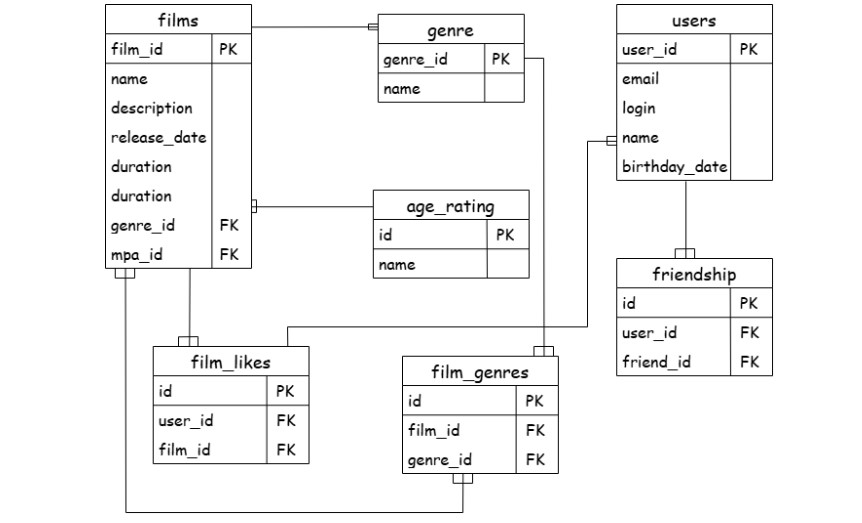
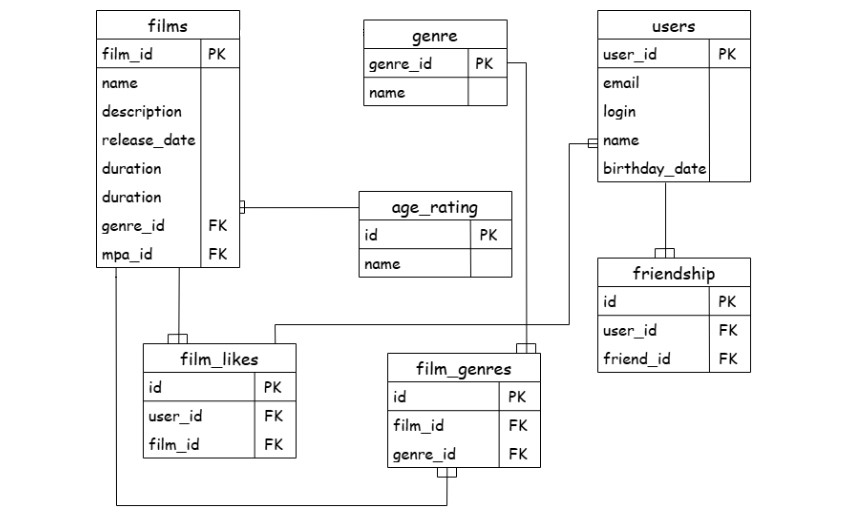
Исправил все замечания

Changed region(s): [[0.1206, 0.0, 0.9049, 0.979], [0.6636, 0.0, 0.9049, 0.3671]]

diff --git a/src/main/java/ru/yandex/practicum/filmorate/storage/database/FilmDatabaseDao.java b/src/main/java/ru/yandex/practicum/filmorate/storage/database/FilmDatabaseDao.java
@@ -6,8 +6,8 @@ import org.springframework.jdbc.core.ResultSetExtractor;
 import org.springframework.jdbc.core.simple.SimpleJdbcInsert;
 import org.springframework.stereotype.Repository;
 import ru.yandex.practicum.filmorate.model.Film;
-import ru.yandex.practicum.filmorate.model.GenreDTO;
-import ru.yandex.practicum.filmorate.model.Rating;
+import ru.yandex.practicum.filmorate.model.Genre;
+import ru.yandex.practicum.filmorate.model.MpaRating;
 import ru.yandex.practicum.filmorate.storage.FilmDAO;
 
 import java.sql.SQLException;
@@ -15,7 +15,7 @@ import java.util.*;
 import java.util.stream.Collectors;
 
 @Repository
-public class DatabaseFilmDao implements FilmDAO {
+public class FilmDatabaseDao implements FilmDAO {
     private final JdbcTemplate jdbcTemplate;
     public static final ResultSetExtractor<List<Film>> LIST_RESULT_SET_EXTRACTOR = (rs) -> {
         Map<Long, Film> map = new HashMap<>();
@@ -36,13 +36,14 @@ public class DatabaseFilmDao implements FilmDAO {
                 }
             });
             if (rs.getObject("GENRE_ID") != null) {
-                GenreDTO genreDTO = new GenreDTO();
-                genreDTO.setId(rs.getLong("GENRE_ID"));
-                genreDTO.setName(rs.getString("GENRE_NAME"));
-                film.getGenres().add(genreDTO);
+                Genre genre = Genre.builder()
+                        .id(rs.getLong("GENRE_ID"))
+                        .name(rs.getString("GENRE_NAME"))
+                        .build();
+                film.getGenres().add(genre);
             }
             if (rs.getObject("RATING_ID") != null) {
-                film.setMpa(Rating.builder()
+                film.setMpa(MpaRating.builder()
                         .id(rs.getLong("RATING_ID"))
                         .name(rs.getString("RATING_NAME"))
                         .build());
@@ -51,13 +52,13 @@ public class DatabaseFilmDao implements FilmDAO {
 
         return map.values().stream().peek(film -> film.setGenres(
                 film.getGenres().stream()
-                        .sorted(Comparator.comparing(GenreDTO::getId))
+                        .sorted(Comparator.comparing(Genre::getId))
                         .collect(Collectors.toCollection(LinkedHashSet::new))
         )).toList();
     };
 
     @Autowired
-    public DatabaseFilmDao(JdbcTemplate jdbcTemplate) {
+    public FilmDatabaseDao(JdbcTemplate jdbcTemplate) {
         this.jdbcTemplate = jdbcTemplate;
     }
 

diff --git a/src/test/java/ru/yandex/practicum/filmorate/controller/FilmControllerTest.java b/src/test/java/ru/yandex/practicum/filmorate/controller/FilmControllerTest.java
@@ -7,14 +7,14 @@ import ru.yandex.practicum.filmorate.exception.ValidationException;
 import ru.yandex.practicum.filmorate.model.Film;
 import ru.yandex.practicum.filmorate.service.FilmService;
 import ru.yandex.practicum.filmorate.service.GenreService;
-import ru.yandex.practicum.filmorate.service.RatingService;
+import ru.yandex.practicum.filmorate.service.MpaRatingService;
 import ru.yandex.practicum.filmorate.service.UserService;
 import ru.yandex.practicum.filmorate.storage.InMemoryFilmStorage;
 import ru.yandex.practicum.filmorate.storage.InMemoryFriendshipDAO;
 import ru.yandex.practicum.filmorate.storage.InMemoryLikesDAO;
 import ru.yandex.practicum.filmorate.storage.InMemoryUserStorage;
-import ru.yandex.practicum.filmorate.storage.database.DatabaseGenreDAO;
-import ru.yandex.practicum.filmorate.storage.database.DatabaseRatingsDAO;
+import ru.yandex.practicum.filmorate.storage.database.GenreDatabaseDao;
+import ru.yandex.practicum.filmorate.storage.database.MpaRatingsDatabaseDao;
 
 import java.time.LocalDate;
 import java.util.List;
@@ -29,8 +29,8 @@ class FilmControllerTest {
     public void beforeEach() {
         filmController = new FilmController(new FilmService(new InMemoryFilmStorage(),
                 new UserService(new InMemoryUserStorage(), new InMemoryFriendshipDAO()), new InMemoryLikesDAO(),
-                new RatingService(new DatabaseRatingsDAO(new JdbcTemplate())),
-                new GenreService(new DatabaseGenreDAO(new JdbcTemplate()))));
+                new MpaRatingService(new MpaRatingsDatabaseDao(new JdbcTemplate())),
+                new GenreService(new GenreDatabaseDao(new JdbcTemplate()))));
     }
 
     @Test

diff --git a/src/main/java/ru/yandex/practicum/filmorate/service/FilmService.java b/src/main/java/ru/yandex/practicum/filmorate/service/FilmService.java
@@ -7,7 +7,7 @@ import org.springframework.stereotype.Service;
 import ru.yandex.practicum.filmorate.exception.NotFoundException;
 import ru.yandex.practicum.filmorate.exception.ValidationException;
 import ru.yandex.practicum.filmorate.model.Film;
-import ru.yandex.practicum.filmorate.model.GenreDTO;
+import ru.yandex.practicum.filmorate.model.Genre;
 import ru.yandex.practicum.filmorate.model.Like;
 import ru.yandex.practicum.filmorate.storage.FilmDAO;
 import ru.yandex.practicum.filmorate.storage.LikesDAO;
@@ -22,12 +22,12 @@ import java.util.stream.Collectors;
 @Slf4j
 @RequiredArgsConstructor
 public class FilmService {
-    @Qualifier("databaseFilmDao")
+    @Qualifier("filmDatabaseDao")
     private final FilmDAO filmStorage;
     private final UserService userService;
-    @Qualifier("databaseLikesDAO")
+    @Qualifier("likesDatabaseDao")
     private final LikesDAO likesDAO;
-    private final RatingService ratingService;
+    private final MpaRatingService mpaRatingService;
     private final GenreService genreService;
 
 
@@ -54,11 +54,11 @@ public class FilmService {
         } else {
             film.setGenres(new HashSet<>(film.getGenres()));
             film.getGenres().stream()
-                    .map(GenreDTO::getId)
+                    .map(Genre::getId)
                     .forEach(genreService::getGenreById);
         }
         if (film.getMpa() != null) {
-            ratingService.getRatingById(film.getMpa().getId());
+            mpaRatingService.getRatingById(film.getMpa().getId());
         }
 
         return filmStorage.save(film);

diff --git a/src/main/java/ru/yandex/practicum/filmorate/storage/database/MpaRatingsDatabaseDao.java b/src/main/java/ru/yandex/practicum/filmorate/storage/database/MpaRatingsDatabaseDao.java
@@ -1,0 +1,37 @@
+package ru.yandex.practicum.filmorate.storage.database;
+
+import org.springframework.beans.factory.annotation.Autowired;
+import org.springframework.jdbc.core.JdbcTemplate;
+import org.springframework.stereotype.Repository;
+import ru.yandex.practicum.filmorate.model.MpaRating;
+import ru.yandex.practicum.filmorate.storage.MpaRatingDAO;
+
+import java.util.List;
+import java.util.Optional;
+
+@Repository
+public class MpaRatingsDatabaseDao implements MpaRatingDAO {
+    private final JdbcTemplate jdbcTemplate;
+
+    @Autowired
+    public MpaRatingsDatabaseDao(JdbcTemplate jdbcTemplate) {
+        this.jdbcTemplate = jdbcTemplate;
+    }
+
+
+    @Override
+    public List<MpaRating> getAllRatings() {
+        return jdbcTemplate.query("select * from AGE_RATING", (e, i) -> MpaRating.builder()
+                .id(e.getLong("id"))
+                .name(e.getString("name"))
+                .build());
+    }
+
+    @Override
+    public Optional<MpaRating> findById(Long ratingId) {
+        return jdbcTemplate.query("select * from AGE_RATING where ID=?", (e, i) -> MpaRating.builder()
+                .id(e.getLong("id"))
+                .name(e.getString("name"))
+                .build(), ratingId).stream().findFirst();
+    }
+}

diff --git a/src/main/java/ru/yandex/practicum/filmorate/service/UserService.java b/src/main/java/ru/yandex/practicum/filmorate/service/UserService.java
@@ -21,9 +21,9 @@ import java.util.stream.Collectors;
 @Slf4j
 @RequiredArgsConstructor
 public class UserService {
-    @Qualifier("dataBaseUserDAO")
+    @Qualifier("userDatabaseDao")
     private final UserDAO userStorage;
-    @Qualifier("databaseFriendshipDAO")
+    @Qualifier("friendshipDatabaseDao")
     private final FriendshipDAO friendshipDAO;
 
 
@@ -67,7 +67,7 @@ public class UserService {
         if (userFriends.contains(friendId) || otherUserFriends.contains(userId)) {
             throw new FriendAlreadyExistsException("Пользователи уже являются друзьями");
         }
-        friendshipDAO.insertFriendShip(user1.getId(), user2.getId());
+        friendshipDAO.insertFriendship(user1.getId(), user2.getId());
     }
 
     public void deleteFriend(Long userId, Long friendId) {
@@ -79,7 +79,7 @@ public class UserService {
         }
         User user1 = getUserOrThrow(userId);
         User user2 = getUserOrThrow(friendId);
-        Boolean deleted = friendshipDAO.deleteFriendShip(user1.getId(), friendId);
+        Boolean deleted = friendshipDAO.deleteFriendship(user1.getId(), friendId);
         if (!deleted) {
             log.warn("Пользователи не друзья");
         }

diff --git a/src/main/java/ru/yandex/practicum/filmorate/controller/MpaRatingController.java b/src/main/java/ru/yandex/practicum/filmorate/controller/MpaRatingController.java
@@ -7,8 +7,8 @@ import org.springframework.web.bind.annotation.GetMapping;
 import org.springframework.web.bind.annotation.PathVariable;
 import org.springframework.web.bind.annotation.RequestMapping;
 import org.springframework.web.bind.annotation.RestController;
-import ru.yandex.practicum.filmorate.model.Rating;
-import ru.yandex.practicum.filmorate.service.RatingService;
+import ru.yandex.practicum.filmorate.model.MpaRating;
+import ru.yandex.practicum.filmorate.service.MpaRatingService;
 
 import java.util.List;
 
@@ -16,17 +16,17 @@ import java.util.List;
 @RequestMapping("/mpa")
 @Slf4j
 @RequiredArgsConstructor
-public class RatingController {
-    private final RatingService ratingService;
+public class MpaRatingController {
+    private final MpaRatingService ratingService;
 
 
     @GetMapping
-    public List<Rating> getAllRatings() {
+    public List<MpaRating> getAllRatings() {
         return ratingService.getAllRatings();
     }
 
     @GetMapping("/{id}")
-    public Rating getRatingById(@PathVariable("id") @Positive Long ratingId) {
+    public MpaRating getRatingById(@PathVariable("id") @Positive Long ratingId) {
         return ratingService.getRatingById(ratingId);
     }
 }

diff --git a/src/main/java/ru/yandex/practicum/filmorate/storage/database/FriendshipDatabaseDao.java b/src/main/java/ru/yandex/practicum/filmorate/storage/database/FriendshipDatabaseDao.java
@@ -10,17 +10,17 @@ import java.util.HashMap;
 import java.util.List;
 
 @Repository
-public class DatabaseFriendshipDAO implements FriendshipDAO {
+public class FriendshipDatabaseDao implements FriendshipDAO {
 
     private final JdbcTemplate jdbcTemplate;
 
     @Autowired
-    public DatabaseFriendshipDAO(JdbcTemplate jdbcTemplate) {
+    public FriendshipDatabaseDao(JdbcTemplate jdbcTemplate) {
         this.jdbcTemplate = jdbcTemplate;
     }
 
     @Override
-    public void insertFriendShip(Long userId, Long friendId) {
+    public void insertFriendship(Long userId, Long friendId) {
         SimpleJdbcInsert insert = new SimpleJdbcInsert(jdbcTemplate)
                 .usingGeneratedKeyColumns("id")
                 .withTableName("friendship");
@@ -32,7 +32,7 @@ public class DatabaseFriendshipDAO implements FriendshipDAO {
     }
 
     @Override
-    public Boolean deleteFriendShip(Long userId, Long friendId) {
+    public Boolean deleteFriendship(Long userId, Long friendId) {
         return jdbcTemplate.update("delete from  FRIENDSHIP " +
                         " where USER_ID = ? and FRIEND_ID = ?",
                 userId, friendId) > 0;

diff --git a/src/main/java/ru/yandex/practicum/filmorate/service/MpaRatingService.java b/src/main/java/ru/yandex/practicum/filmorate/service/MpaRatingService.java
@@ -4,24 +4,24 @@ import lombok.RequiredArgsConstructor;
 import lombok.extern.slf4j.Slf4j;
 import org.springframework.stereotype.Service;
 import ru.yandex.practicum.filmorate.exception.NotFoundException;
-import ru.yandex.practicum.filmorate.model.Rating;
-import ru.yandex.practicum.filmorate.storage.RatingDAO;
+import ru.yandex.practicum.filmorate.model.MpaRating;
+import ru.yandex.practicum.filmorate.storage.MpaRatingDAO;
 
 import java.util.List;
 
 @Service
 @Slf4j
 @RequiredArgsConstructor
-public class RatingService {
-    private final RatingDAO ratingStorage;
+public class MpaRatingService {
+    private final MpaRatingDAO mpaRatingStorage;
 
 
-    public List<Rating> getAllRatings() {
-        return ratingStorage.getAllRatings();
+    public List<MpaRating> getAllRatings() {
+        return mpaRatingStorage.getAllRatings();
     }
 
-    public Rating getRatingById(Long ratingId) {
-        return ratingStorage.findById(ratingId)
+    public MpaRating getRatingById(Long ratingId) {
+        return mpaRatingStorage.findById(ratingId)
                 .orElseThrow(() -> new NotFoundException("Рейтинг не найден"));
     }
 }

diff --git a/src/main/java/ru/yandex/practicum/filmorate/storage/InMemoryFriendshipDAO.java b/src/main/java/ru/yandex/practicum/filmorate/storage/InMemoryFriendshipDAO.java
@@ -7,7 +7,7 @@ public class InMemoryFriendshipDAO implements FriendshipDAO {
     HashMap<Long, Set<Long>> map = new HashMap<>();
 
     @Override
-    public void insertFriendShip(Long id, Long id1) {
+    public void insertFriendship(Long id, Long id1) {
         Set<Long> longs = map.get(id);
         if (longs == null) {
             longs = new HashSet<>();
@@ -18,7 +18,7 @@ public class InMemoryFriendshipDAO implements FriendshipDAO {
     }
 
     @Override
-    public Boolean deleteFriendShip(Long id, Long friendId) {
+    public Boolean deleteFriendship(Long id, Long friendId) {
         Set<Long> longs = map.get(id);
 
         if (longs == null) {

diff --git a/src/main/java/ru/yandex/practicum/filmorate/storage/database/GenreDatabaseDao.java b/src/main/java/ru/yandex/practicum/filmorate/storage/database/GenreDatabaseDao.java
@@ -10,12 +10,12 @@ import java.util.List;
 import java.util.Optional;
 
 @Repository
-public class DatabaseGenreDAO implements GenresDAO {
+public class GenreDatabaseDao implements GenresDAO {
     private final JdbcTemplate jdbcTemplate;
 
 
     @Autowired
-    public DatabaseGenreDAO(JdbcTemplate jdbcTemplate) {
+    public GenreDatabaseDao(JdbcTemplate jdbcTemplate) {
         this.jdbcTemplate = jdbcTemplate;
     }
 

diff --git a/src/main/java/ru/yandex/practicum/filmorate/storage/database/LikesDatabaseDao.java b/src/main/java/ru/yandex/practicum/filmorate/storage/database/LikesDatabaseDao.java
@@ -11,11 +11,11 @@ import java.util.HashMap;
 import java.util.List;
 
 @Repository
-public class DatabaseLikesDAO implements LikesDAO {
+public class LikesDatabaseDao implements LikesDAO {
     private final JdbcTemplate jdbcTemplate;
 
     @Autowired
-    public DatabaseLikesDAO(JdbcTemplate jdbcTemplate) {
+    public LikesDatabaseDao(JdbcTemplate jdbcTemplate) {
         this.jdbcTemplate = jdbcTemplate;
     }
 

diff --git a/src/main/java/ru/yandex/practicum/filmorate/storage/database/UserDatabaseDao.java b/src/main/java/ru/yandex/practicum/filmorate/storage/database/UserDatabaseDao.java
@@ -13,13 +13,13 @@ import java.util.List;
 import java.util.Optional;
 
 @Repository
-public class DataBaseUserDAO implements UserDAO {
+public class UserDatabaseDao implements UserDAO {
 
     private final JdbcTemplate jdbcTemplate;
 
     @Autowired
 
-    public DataBaseUserDAO(JdbcTemplate jdbcTemplate) {
+    public UserDatabaseDao(JdbcTemplate jdbcTemplate) {
         this.jdbcTemplate = jdbcTemplate;
     }
 
